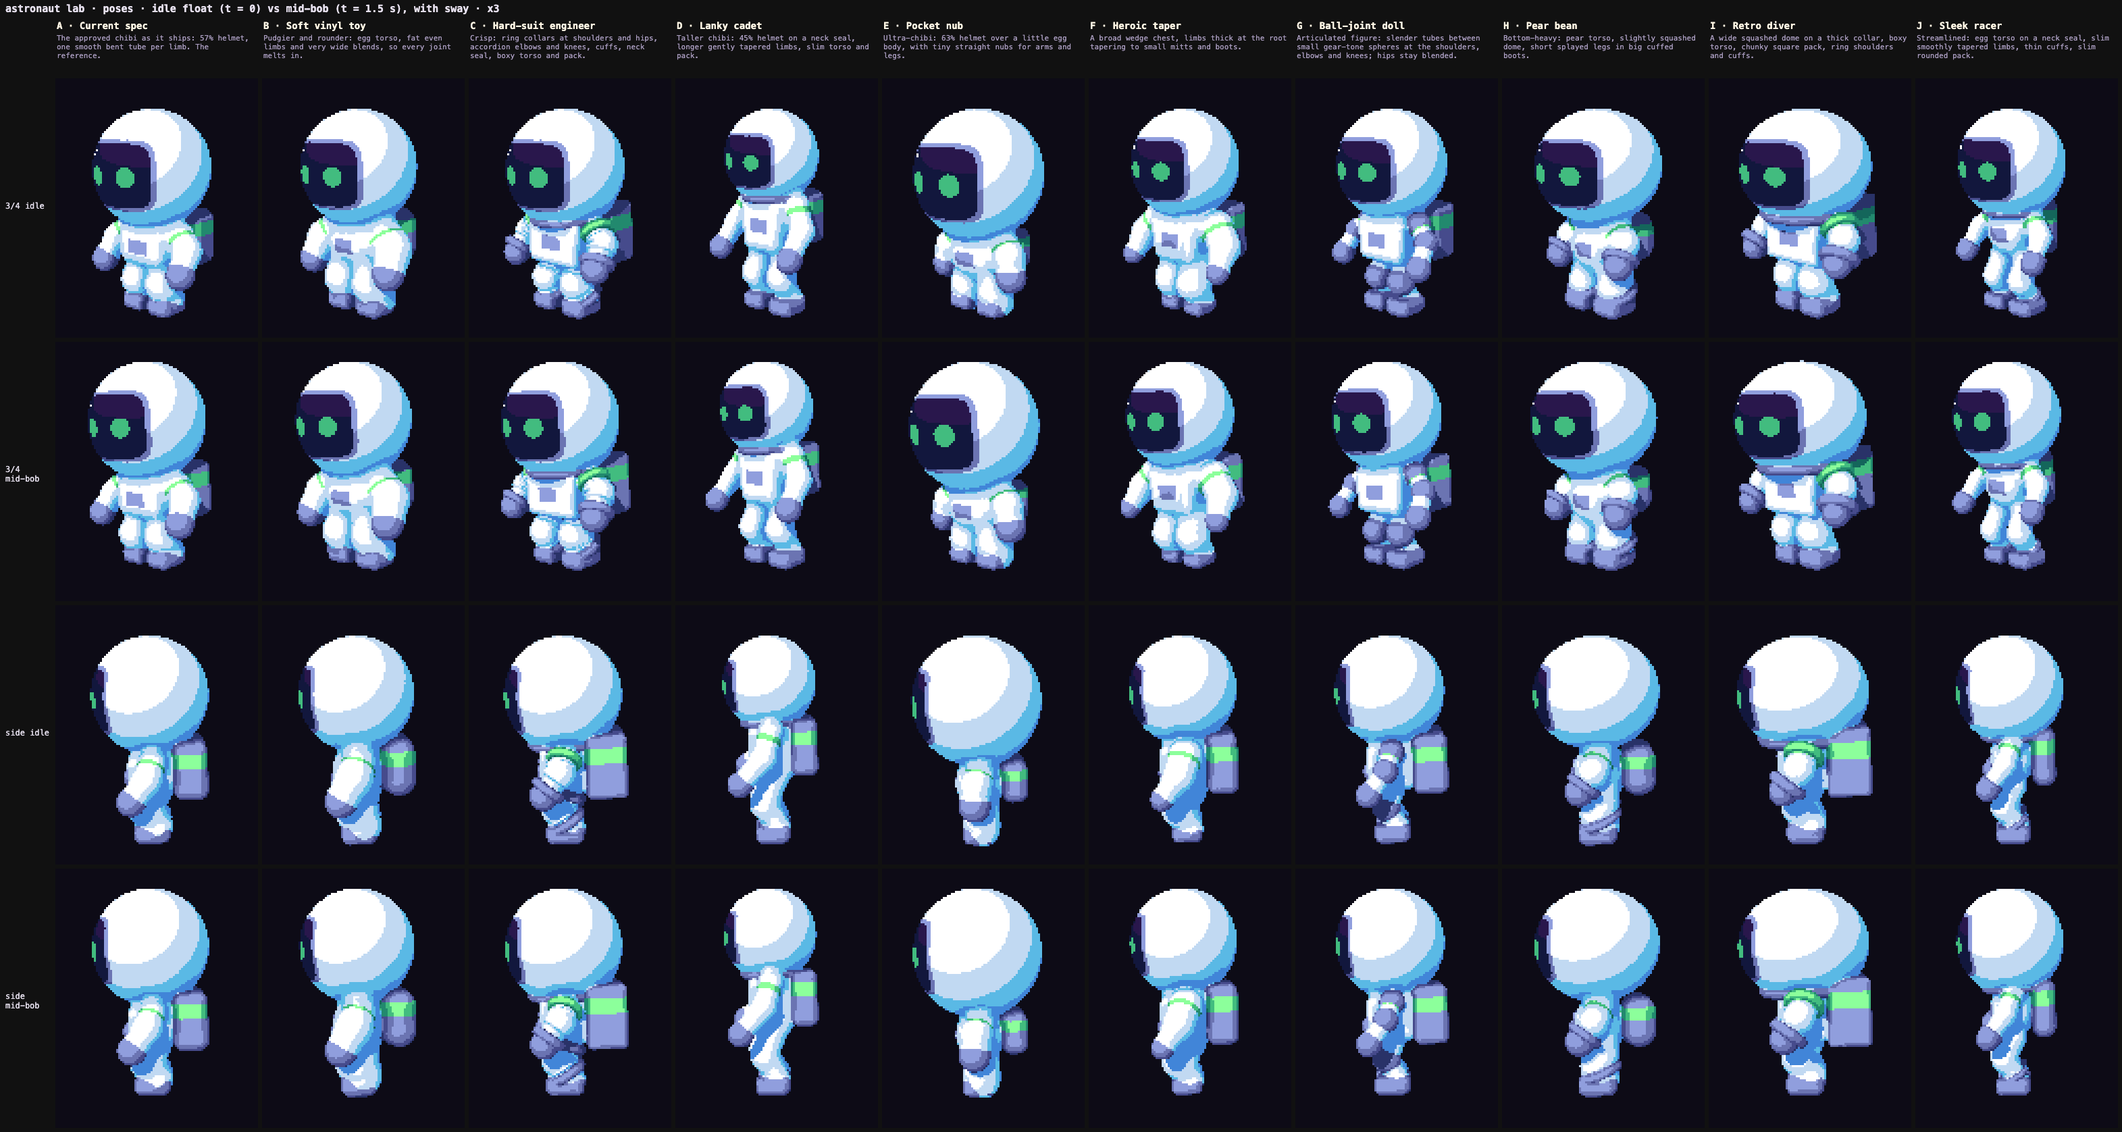
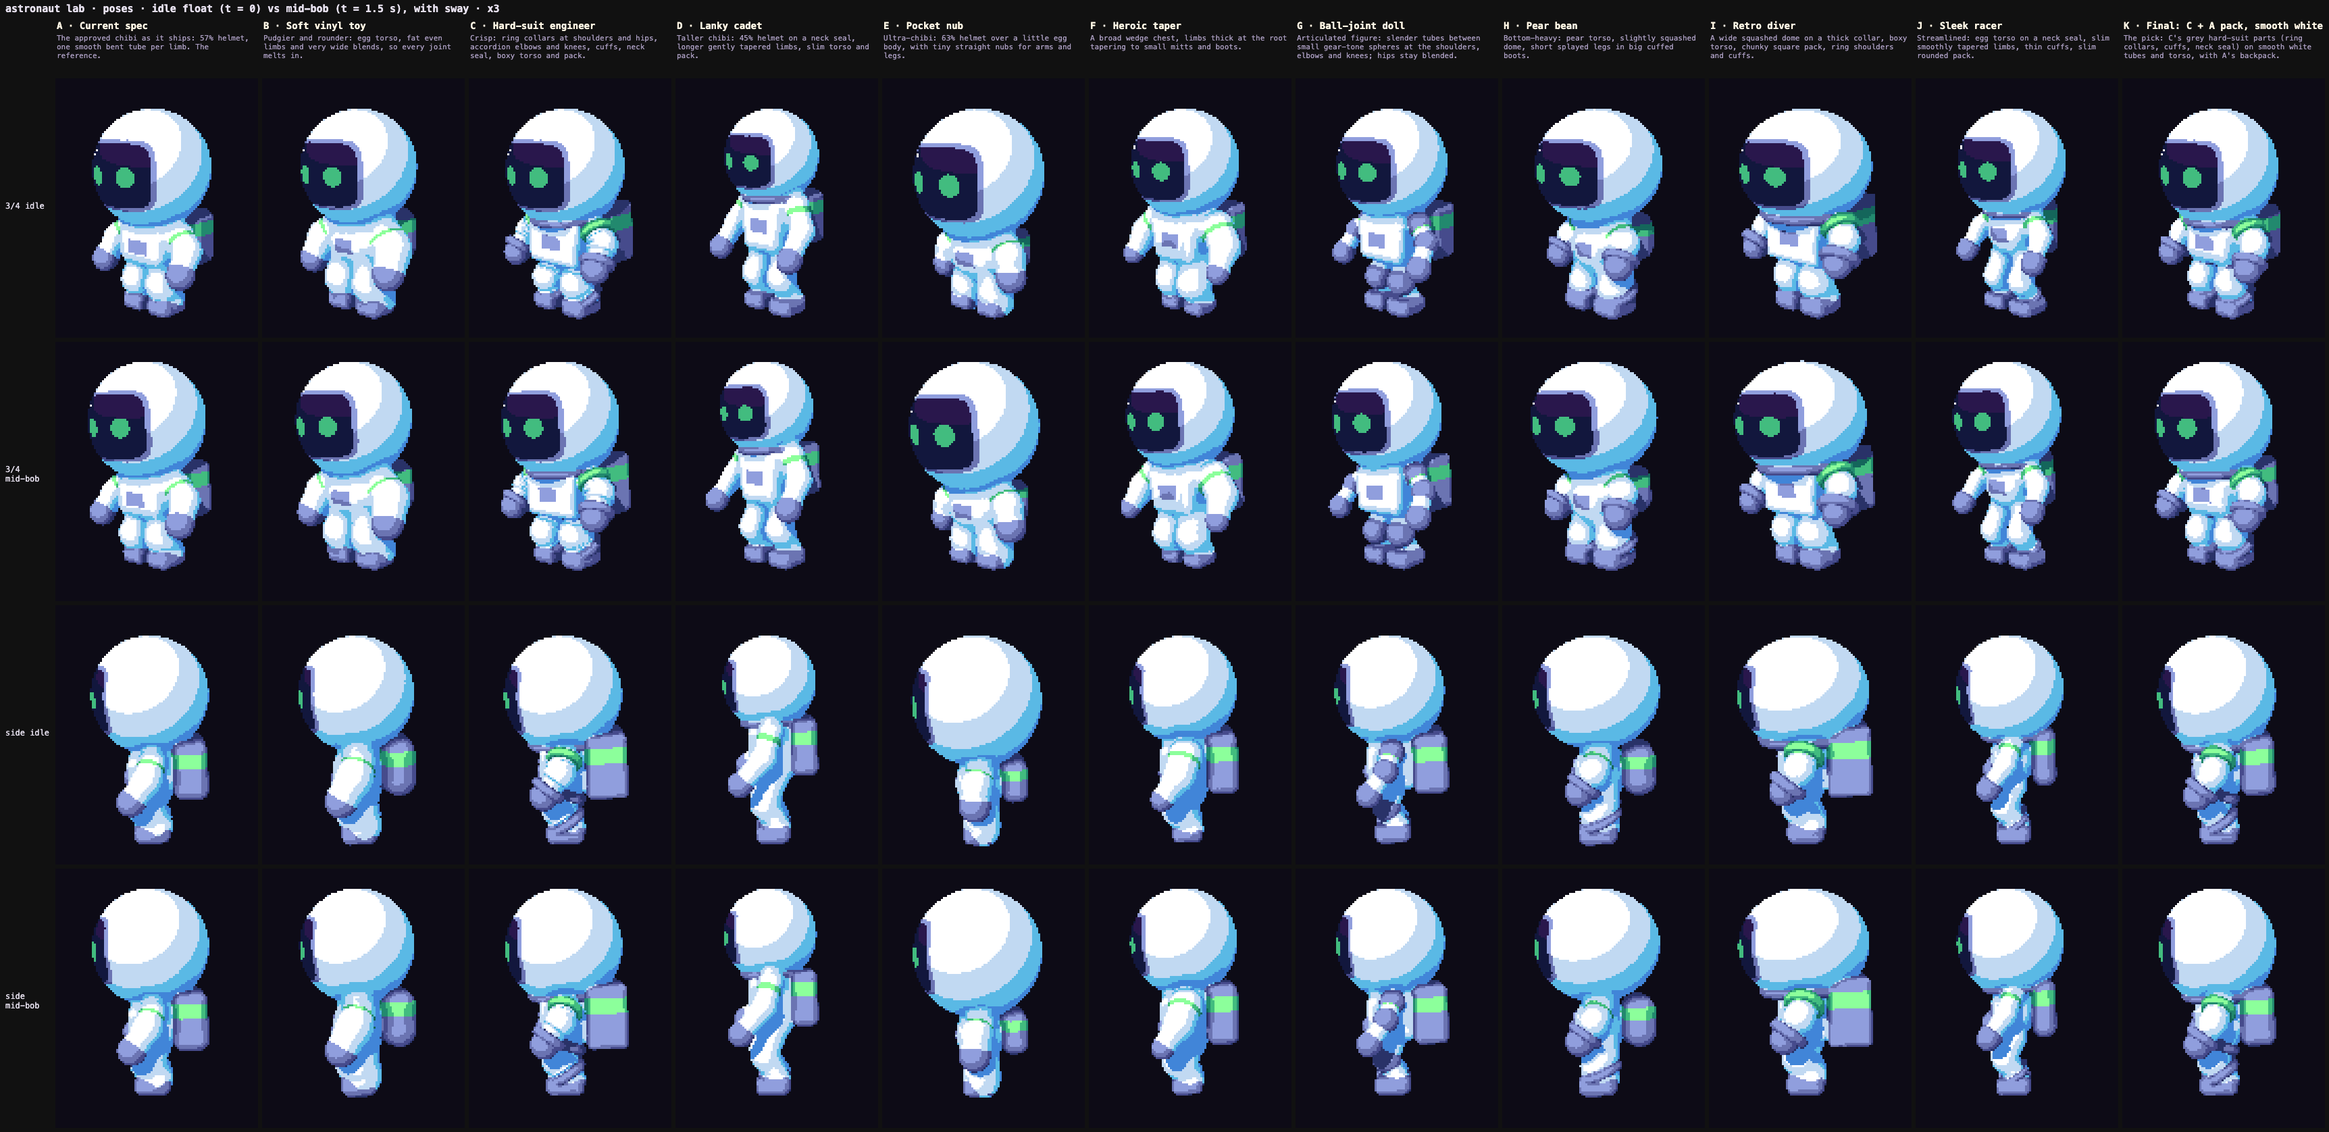
feat(mockup): variant K, the final astronaut (C + A pack, smooth white)
K keeps C's grey hard-suit parts (shoulder and hip ring collars, glove
and boot cuffs, neck seal) and returns every white detail to A's: smooth
bent elbows and knees, A's torso corner radius and blends, A's backpack.
Adds out/final-compare.png (A, C, K in every view, idle and mid-bob),
K-closeup.png and K-turntable.gif; README records the outcome.

diff --git a/mockups/explorations/astronaut-lab/variants.js b/mockups/explorations/astronaut-lab/variants.js
@@ -92,4 +92,16 @@ export const VARIANTS = [
       cuffScale: 1.12, ringT: 0.012, packW: 0.13, packH: 0.14, packD: 0.055, packRound: 0.9,
     },
   },
+  {
+    id: 'K', name: 'Final: C + A pack, smooth white',
+    // C's grey (gear) detailing kept; every white-on-white detail back to A: elbow/knee
+    // accordion -> smooth bend, torsoCorner 0.3 -> 0.65 (no bevelled box edges), body/bend/
+    // neck blends 0.012 -> A's (no crisp white creases), backpack -> A's. Proportions stay C's.
+    leaning: "The pick: C's grey hard-suit parts (ring collars, cuffs, neck seal) on smooth white tubes and torso, with A's backpack.",
+    params: {
+      helmetSink: 0.05, torsoW: 0.16, hipX: 0.09, armR: 0.058, legR: 0.07,
+      shoulder: 1, hip: 1, collar: 1, gloveCuff: 1, bootCuff: 1, band: 1, ringT: 0.018,
+      bootH: 0.045, bootL: 0.09,
+    },
+  },
 ];

diff --git a/mockups/explorations/astronaut-lab/out/params.md b/mockups/explorations/astronaut-lab/out/params.md
@@ -14,54 +14,55 @@ Generated by `npm run lab` from `variants.js` and `params.js`. Each variant is a
 - **H · Pear bean:** Bottom-heavy: pear torso, slightly squashed dome, short splayed legs in big cuffed boots.
 - **I · Retro diver:** A wide squashed dome on a thick collar, boxy torso, chunky square pack, ring shoulders and cuffs.
 - **J · Sleek racer:** Streamlined: egg torso on a neck seal, slim smoothly tapered limbs, thin cuffs, slim rounded pack.
+- **K · Final: C + A pack, smooth white:** The pick: C's grey hard-suit parts (ring collars, cuffs, neck seal) on smooth white tubes and torso, with A's backpack.
 
 ## Parameters
 
-| Parameter | Meaning | A | B | C | D | E | F | G | H | I | J |
-|---|---|---|---|---|---|---|---|---|---|---|---|
-| *proportions* | |  |  |  |  |  |  |  |  |  |  |
-| `headFrac` | Helmet height as a share of the whole figure | 0.57 | **0.56** | 0.57 | **0.45** | **0.63** | **0.52** | **0.53** | **0.55** | **0.55** | **0.52** |
-| `headSquash` | Helmet height / width (below 1 = a squashed, wider dome) | 1 | 1 | 1 | 1 | 1 | 1 | 1 | **0.9** | **0.86** | 1 |
-| `helmetSink` | How far the helmet sits down into the torso | 0.02 | 0.02 | **0.05** | **0.04** | **0.03** | 0.02 | 0.02 | 0.02 | **0.06** | **0.04** |
-| `legShare` | Legs' share of the body below the helmet (the rest is torso) | 0.535 | 0.535 | 0.535 | **0.53** | **0.42** | **0.52** | **0.55** | **0.42** | 0.535 | **0.55** |
-| `torsoW` | Torso half-width at the chest | 0.153 | **0.16** | **0.16** | **0.14** | **0.16** | **0.17** | **0.145** | **0.13** | **0.17** | **0.14** |
-| `torsoD` | Torso half-depth (front to back) | 0.121 | **0.13** | 0.121 | **0.11** | 0.121 | 0.121 | 0.121 | **0.13** | **0.13** | **0.11** |
-| `torsoTaper` | Hip width / chest width (above 1 = pear, below 1 = wedge) | 1 | 1 | 1 | **0.9** | 1 | **0.75** | 1 | **1.3** | 1 | **0.85** |
-| `torsoCorner` | Torso corner radius / its smallest half-size (low = box) | 0.65 | **1** | **0.3** | **0.5** | **1** | **0.5** | **0.4** | **1** | **0.25** | 0.65 |
-| `torsoEgg` | Blend of the torso toward a smooth egg (0 = rounded box) | 0 | **0.35** | 0 | 0 | **0.2** | 0 | 0 | **0.7** | 0 | **0.8** |
-| *limbs* | |  |  |  |  |  |  |  |  |  |  |
-| `armLen` | Arm length, shoulder to wrist | 0.19 | **0.18** | 0.19 | **0.27** | **0.13** | **0.22** | **0.22** | **0.17** | 0.19 | **0.23** |
-| `armR` | Arm tube radius at the shoulder | 0.061 | **0.072** | **0.058** | **0.052** | **0.064** | **0.08** | **0.044** | **0.06** | **0.064** | **0.05** |
-| `armTaper` | Wrist radius / shoulder radius | 0.93 | **1** | 0.93 | **0.85** | **1** | **0.58** | **0.9** | 0.93 | 0.93 | **0.75** |
-| `armSplay` | How far the arms hang out from the body (radians) | 0.785 | 0.785 | 0.785 | **0.5** | **0.7** | 0.785 | 0.785 | 0.785 | 0.785 | 0.785 |
-| `elbowBend` | How far the forearm swings forward at the elbow (radians); breathes with the bob | 0.6 | **0.5** | 0.6 | **0.7** | **0.1** | 0.6 | 0.6 | 0.6 | 0.6 | 0.6 |
-| `legR` | Leg tube radius at the hip | 0.076 | **0.084** | **0.07** | **0.064** | **0.08** | **0.088** | **0.054** | **0.08** | **0.078** | **0.06** |
-| `legTaper` | Ankle radius / hip radius | 0.92 | **1** | 0.92 | **0.85** | **1** | **0.62** | **0.9** | 0.92 | 0.92 | **0.75** |
-| `hipX` | Half the spacing between the hips | 0.079 | **0.092** | **0.09** | 0.079 | **0.09** | **0.07** | **0.072** | **0.095** | 0.079 | 0.079 |
-| `kneeBend` | Resting knee bend (radians); breathes with the bob | 1.15 | **0.9** | 1.15 | **1** | **0.25** | 1.15 | **1** | **0.8** | 1.15 | 1.15 |
-| `mittR` | Mitt (glove) radius | 0.063 | **0.07** | 0.063 | **0.056** | **0.07** | **0.048** | **0.055** | **0.066** | 0.063 | **0.052** |
-| `bootW` | Boot half-width | 0.065 | **0.072** | 0.065 | 0.065 | 0.065 | **0.055** | 0.065 | **0.075** | **0.072** | 0.065 |
-| `bootH` | Boot half-height | 0.042 | **0.046** | **0.045** | 0.042 | **0.035** | **0.036** | 0.042 | **0.048** | **0.05** | **0.038** |
-| `bootL` | Boot half-length (heel to toe) | 0.084 | **0.08** | **0.09** | **0.08** | **0.07** | **0.07** | 0.084 | **0.09** | **0.09** | **0.08** |
-| *joints* | |  |  |  |  |  |  |  |  |  |  |
-| `shoulder` | Shoulder joint: blended, a ring collar, or a ball | blend | blend | **ring** | blend | blend | blend | **ball** | blend | **ring** | blend |
-| `hip` | Hip joint: blended, a ring collar, or a ball | blend | blend | **ring** | blend | blend | blend | blend | blend | blend | blend |
-| `elbow` | Elbow: one smooth bent tube, a ball, or accordion ribs | bend | bend | **accordion** | bend | bend | bend | **ball** | bend | bend | bend |
-| `knee` | Knee: one smooth bent tube, a ball, or accordion ribs | bend | bend | **accordion** | bend | bend | bend | **ball** | bend | bend | bend |
-| `bodyBlend` | Smooth-union radius where limbs meet the body (big = soft toy, small = crisp crease) | 0.042 | **0.065** | **0.012** | 0.042 | **0.04** | **0.03** | **0.01** | **0.06** | **0.02** | **0.03** |
-| `bendBlend` | Smooth-union radius inside elbows and knees | 0.037 | **0.06** | **0.012** | 0.037 | 0.037 | 0.037 | **0.01** | 0.037 | 0.037 | **0.03** |
-| `neckBlend` | Smooth-union radius where the helmet meets the torso | 0.042 | **0.06** | **0.012** | 0.042 | 0.042 | 0.042 | 0.042 | 0.042 | 0.042 | 0.042 |
-| `ballScale` | Ball-joint radius / tube radius | 1.3 | 1.3 | 1.3 | 1.3 | 1.3 | 1.3 | 1.3 | 1.3 | 1.3 | 1.3 |
-| `ringT` | Thickness of rings, collar and cuffs | 0.016 | 0.016 | **0.018** | 0.016 | 0.016 | 0.016 | 0.016 | 0.016 | **0.022** | **0.012** |
-| `ribs` | Accordion ribs on each side of an elbow or knee | 2 | 2 | 2 | 2 | 2 | 2 | 2 | 2 | 2 | 2 |
-| `ribDepth` | Accordion rib height / tube radius | 0.2 | 0.2 | **0.22** | 0.2 | 0.2 | 0.2 | 0.2 | 0.2 | 0.2 | 0.2 |
-| `collar` | Neck seal: a ring where the helmet meets the torso | off | off | **on** | **on** | off | off | off | off | **on** | **on** |
-| `gloveCuff` | Glove cuff: a separate rim at each wrist | off | off | **on** | off | off | off | off | **on** | **on** | **on** |
-| `bootCuff` | Boot cuff: a separate rim at each ankle | off | off | **on** | off | off | off | off | **on** | off | **on** |
-| `cuffScale` | Cuff radius / the tube it sits on | 1.2 | 1.2 | 1.2 | 1.2 | 1.2 | 1.2 | 1.2 | **1.25** | 1.2 | **1.12** |
-| *backpack* | |  |  |  |  |  |  |  |  |  |  |
-| `packW` | Backpack half-width | 0.184 | **0.17** | **0.19** | **0.15** | **0.15** | **0.19** | 0.184 | **0.15** | **0.2** | **0.13** |
-| `packH` | Backpack half-height | 0.137 | 0.137 | **0.15** | **0.13** | **0.1** | **0.14** | 0.137 | **0.12** | **0.16** | **0.14** |
-| `packD` | Backpack half-depth (how far it sticks out) | 0.079 | **0.08** | **0.095** | **0.06** | **0.06** | **0.07** | 0.079 | **0.08** | **0.1** | **0.055** |
-| `packRound` | Backpack corner radius / its smallest half-size | 0.53 | **1** | **0.25** | 0.53 | **0.8** | 0.53 | **0.4** | **0.9** | **0.2** | **0.9** |
-| `band` | Where the contributor colour goes on the arm: a sleeve band, or the shoulder ring (ring shoulders only) | sleeve | sleeve | **shoulder ring** | sleeve | sleeve | sleeve | sleeve | sleeve | **shoulder ring** | sleeve |
+| Parameter | Meaning | A | B | C | D | E | F | G | H | I | J | K |
+|---|---|---|---|---|---|---|---|---|---|---|---|---|
+| *proportions* | |  |  |  |  |  |  |  |  |  |  |  |
+| `headFrac` | Helmet height as a share of the whole figure | 0.57 | **0.56** | 0.57 | **0.45** | **0.63** | **0.52** | **0.53** | **0.55** | **0.55** | **0.52** | 0.57 |
+| `headSquash` | Helmet height / width (below 1 = a squashed, wider dome) | 1 | 1 | 1 | 1 | 1 | 1 | 1 | **0.9** | **0.86** | 1 | 1 |
+| `helmetSink` | How far the helmet sits down into the torso | 0.02 | 0.02 | **0.05** | **0.04** | **0.03** | 0.02 | 0.02 | 0.02 | **0.06** | **0.04** | **0.05** |
+| `legShare` | Legs' share of the body below the helmet (the rest is torso) | 0.535 | 0.535 | 0.535 | **0.53** | **0.42** | **0.52** | **0.55** | **0.42** | 0.535 | **0.55** | 0.535 |
+| `torsoW` | Torso half-width at the chest | 0.153 | **0.16** | **0.16** | **0.14** | **0.16** | **0.17** | **0.145** | **0.13** | **0.17** | **0.14** | **0.16** |
+| `torsoD` | Torso half-depth (front to back) | 0.121 | **0.13** | 0.121 | **0.11** | 0.121 | 0.121 | 0.121 | **0.13** | **0.13** | **0.11** | 0.121 |
+| `torsoTaper` | Hip width / chest width (above 1 = pear, below 1 = wedge) | 1 | 1 | 1 | **0.9** | 1 | **0.75** | 1 | **1.3** | 1 | **0.85** | 1 |
+| `torsoCorner` | Torso corner radius / its smallest half-size (low = box) | 0.65 | **1** | **0.3** | **0.5** | **1** | **0.5** | **0.4** | **1** | **0.25** | 0.65 | 0.65 |
+| `torsoEgg` | Blend of the torso toward a smooth egg (0 = rounded box) | 0 | **0.35** | 0 | 0 | **0.2** | 0 | 0 | **0.7** | 0 | **0.8** | 0 |
+| *limbs* | |  |  |  |  |  |  |  |  |  |  |  |
+| `armLen` | Arm length, shoulder to wrist | 0.19 | **0.18** | 0.19 | **0.27** | **0.13** | **0.22** | **0.22** | **0.17** | 0.19 | **0.23** | 0.19 |
+| `armR` | Arm tube radius at the shoulder | 0.061 | **0.072** | **0.058** | **0.052** | **0.064** | **0.08** | **0.044** | **0.06** | **0.064** | **0.05** | **0.058** |
+| `armTaper` | Wrist radius / shoulder radius | 0.93 | **1** | 0.93 | **0.85** | **1** | **0.58** | **0.9** | 0.93 | 0.93 | **0.75** | 0.93 |
+| `armSplay` | How far the arms hang out from the body (radians) | 0.785 | 0.785 | 0.785 | **0.5** | **0.7** | 0.785 | 0.785 | 0.785 | 0.785 | 0.785 | 0.785 |
+| `elbowBend` | How far the forearm swings forward at the elbow (radians); breathes with the bob | 0.6 | **0.5** | 0.6 | **0.7** | **0.1** | 0.6 | 0.6 | 0.6 | 0.6 | 0.6 | 0.6 |
+| `legR` | Leg tube radius at the hip | 0.076 | **0.084** | **0.07** | **0.064** | **0.08** | **0.088** | **0.054** | **0.08** | **0.078** | **0.06** | **0.07** |
+| `legTaper` | Ankle radius / hip radius | 0.92 | **1** | 0.92 | **0.85** | **1** | **0.62** | **0.9** | 0.92 | 0.92 | **0.75** | 0.92 |
+| `hipX` | Half the spacing between the hips | 0.079 | **0.092** | **0.09** | 0.079 | **0.09** | **0.07** | **0.072** | **0.095** | 0.079 | 0.079 | **0.09** |
+| `kneeBend` | Resting knee bend (radians); breathes with the bob | 1.15 | **0.9** | 1.15 | **1** | **0.25** | 1.15 | **1** | **0.8** | 1.15 | 1.15 | 1.15 |
+| `mittR` | Mitt (glove) radius | 0.063 | **0.07** | 0.063 | **0.056** | **0.07** | **0.048** | **0.055** | **0.066** | 0.063 | **0.052** | 0.063 |
+| `bootW` | Boot half-width | 0.065 | **0.072** | 0.065 | 0.065 | 0.065 | **0.055** | 0.065 | **0.075** | **0.072** | 0.065 | 0.065 |
+| `bootH` | Boot half-height | 0.042 | **0.046** | **0.045** | 0.042 | **0.035** | **0.036** | 0.042 | **0.048** | **0.05** | **0.038** | **0.045** |
+| `bootL` | Boot half-length (heel to toe) | 0.084 | **0.08** | **0.09** | **0.08** | **0.07** | **0.07** | 0.084 | **0.09** | **0.09** | **0.08** | **0.09** |
+| *joints* | |  |  |  |  |  |  |  |  |  |  |  |
+| `shoulder` | Shoulder joint: blended, a ring collar, or a ball | blend | blend | **ring** | blend | blend | blend | **ball** | blend | **ring** | blend | **ring** |
+| `hip` | Hip joint: blended, a ring collar, or a ball | blend | blend | **ring** | blend | blend | blend | blend | blend | blend | blend | **ring** |
+| `elbow` | Elbow: one smooth bent tube, a ball, or accordion ribs | bend | bend | **accordion** | bend | bend | bend | **ball** | bend | bend | bend | bend |
+| `knee` | Knee: one smooth bent tube, a ball, or accordion ribs | bend | bend | **accordion** | bend | bend | bend | **ball** | bend | bend | bend | bend |
+| `bodyBlend` | Smooth-union radius where limbs meet the body (big = soft toy, small = crisp crease) | 0.042 | **0.065** | **0.012** | 0.042 | **0.04** | **0.03** | **0.01** | **0.06** | **0.02** | **0.03** | 0.042 |
+| `bendBlend` | Smooth-union radius inside elbows and knees | 0.037 | **0.06** | **0.012** | 0.037 | 0.037 | 0.037 | **0.01** | 0.037 | 0.037 | **0.03** | 0.037 |
+| `neckBlend` | Smooth-union radius where the helmet meets the torso | 0.042 | **0.06** | **0.012** | 0.042 | 0.042 | 0.042 | 0.042 | 0.042 | 0.042 | 0.042 | 0.042 |
+| `ballScale` | Ball-joint radius / tube radius | 1.3 | 1.3 | 1.3 | 1.3 | 1.3 | 1.3 | 1.3 | 1.3 | 1.3 | 1.3 | 1.3 |
+| `ringT` | Thickness of rings, collar and cuffs | 0.016 | 0.016 | **0.018** | 0.016 | 0.016 | 0.016 | 0.016 | 0.016 | **0.022** | **0.012** | **0.018** |
+| `ribs` | Accordion ribs on each side of an elbow or knee | 2 | 2 | 2 | 2 | 2 | 2 | 2 | 2 | 2 | 2 | 2 |
+| `ribDepth` | Accordion rib height / tube radius | 0.2 | 0.2 | **0.22** | 0.2 | 0.2 | 0.2 | 0.2 | 0.2 | 0.2 | 0.2 | 0.2 |
+| `collar` | Neck seal: a ring where the helmet meets the torso | off | off | **on** | **on** | off | off | off | off | **on** | **on** | **on** |
+| `gloveCuff` | Glove cuff: a separate rim at each wrist | off | off | **on** | off | off | off | off | **on** | **on** | **on** | **on** |
+| `bootCuff` | Boot cuff: a separate rim at each ankle | off | off | **on** | off | off | off | off | **on** | off | **on** | **on** |
+| `cuffScale` | Cuff radius / the tube it sits on | 1.2 | 1.2 | 1.2 | 1.2 | 1.2 | 1.2 | 1.2 | **1.25** | 1.2 | **1.12** | 1.2 |
+| *backpack* | |  |  |  |  |  |  |  |  |  |  |  |
+| `packW` | Backpack half-width | 0.184 | **0.17** | **0.19** | **0.15** | **0.15** | **0.19** | 0.184 | **0.15** | **0.2** | **0.13** | 0.184 |
+| `packH` | Backpack half-height | 0.137 | 0.137 | **0.15** | **0.13** | **0.1** | **0.14** | 0.137 | **0.12** | **0.16** | **0.14** | 0.137 |
+| `packD` | Backpack half-depth (how far it sticks out) | 0.079 | **0.08** | **0.095** | **0.06** | **0.06** | **0.07** | 0.079 | **0.08** | **0.1** | **0.055** | 0.079 |
+| `packRound` | Backpack corner radius / its smallest half-size | 0.53 | **1** | **0.25** | 0.53 | **0.8** | 0.53 | **0.4** | **0.9** | **0.2** | **0.9** | 0.53 |
+| `band` | Where the contributor colour goes on the arm: a sleeve band, or the shoulder ring (ring shoulders only) | sleeve | sleeve | **shoulder ring** | sleeve | sleeve | sleeve | sleeve | sleeve | **shoulder ring** | sleeve | **shoulder ring** |

diff --git a/mockups/explorations/astronaut-lab/README.md b/mockups/explorations/astronaut-lab/README.md
@@ -1,8 +1,8 @@
 # Astronaut lab
 
-> **Exploration, 2026-11-04: 10 astronaut variants. Outcome: the human kept A (current spec). Not used by the final assets.**
+> **Exploration, 2026-11-04: 10 variants. Outcome: final = K (C with A's backpack and smooth white suit); to be ported into asset-viewer.**
 
-A lineup of astronaut designs to pick from, focused on proportions and joint connections. There's one parameterised astronaut (`astronaut.js`): a raymarched SDF like the asset viewer's, with the same banded lighting, unified self-shadowing, 4:3 screen visor, V2 eyes and BLK 36 crew colours. Each variant is only a parameter set (`variants.js`), so picking elements from different variants means mixing parameters. A throwaway mockup, not product code.
+A lineup of astronaut designs to pick from (A–J), plus the pick, K, focused on proportions and joint connections. There's one parameterised astronaut (`astronaut.js`): a raymarched SDF like the asset viewer's, with the same banded lighting, unified self-shadowing, 4:3 screen visor, V2 eyes and BLK 36 crew colours. Each variant is only a parameter set (`variants.js`), so picking elements from different variants means mixing parameters. A throwaway mockup, not product code.
 
 ## Run
 
@@ -12,7 +12,7 @@ npm run lab   # regenerates everything in out/ (headless Chromium + SwiftShader,
 npm run dev   # live mixer at http://127.0.0.1:5186/ (loopback only; PORT=... to change)
 ```
 
-`node lab.mjs lineup closeups` renders just the named outputs (`lineup`, `poses`, `closeups`, `turntable`, `params`).
+`node lab.mjs lineup closeups` renders just the named outputs (`lineup`, `poses`, `closeups`, `turntable`, `final`, `params`).
 
 ## Outputs (`out/`)
 
@@ -22,15 +22,26 @@ npm run dev   # live mixer at http://127.0.0.1:5186/ (loopback only; PORT=... to
 | `lineup-poses.png` | Idle float (t = 0) and mid-bob (t = 1.5 s) at 3/4 and side, with sway |
 | `lineup-turntable.gif` | All variants turning together: one turn and one bob per 6 s loop, 15 fps, seamless |
 | `<letter>-closeup.png` | One variant with the camera at half distance (twice the pixels), ×4: 3/4, side and back 3/4 |
+| `final-compare.png` | The pick: A, C and K from the front, 3/4 and side, idle and mid-bob, ×3 |
+| `K-turntable.gif` | K alone at the 2× close-up scale, turning: one turn and one bob per 6 s loop, 15 fps, seamless |
 | `params.md` | Every variant's parameters and its leaning, in plain words |
 
 Every tile `npm run lab` renders is checked, and the run fails if any check fails:
 - only BLK 36 crew colours plus space appear (no antialiasing, no dithering);
 - the silhouette is one connected piece (no floating parts or gaps);
 - the figure isn't clipped by the tile edge;
-- the turntable's frame 90 is pixel-identical to frame 0.
+- each turntable's frame 90 is pixel-identical to frame 0.
 
 The crew colours are also checked against what `../../asset-viewer/palette-map.js` resolves for BLK 36.
+
+## K, the final
+
+K is C (hard-suit engineer) with A's backpack and a smooth white suit. All of C's grey (gear) detailing stays: the ring collars at the shoulders (in the contributor colour) and hips, the glove and boot cuffs, the neck seal, the mitts, the boots, the chest panel and the visor bezel. Every white-on-white detail goes back to A:
+- elbows and knees are one smooth bent tube, not accordion ribs;
+- the torso has A's corner radius instead of C's bevelled box edges;
+- A's limb, bend and neck blends replace C's crisp white creases.
+
+C's proportions are kept. The full parameter set is the K row of `out/params.md` (anything not listed there is A's default in `params.js`).
 
 ## How it's built
 
